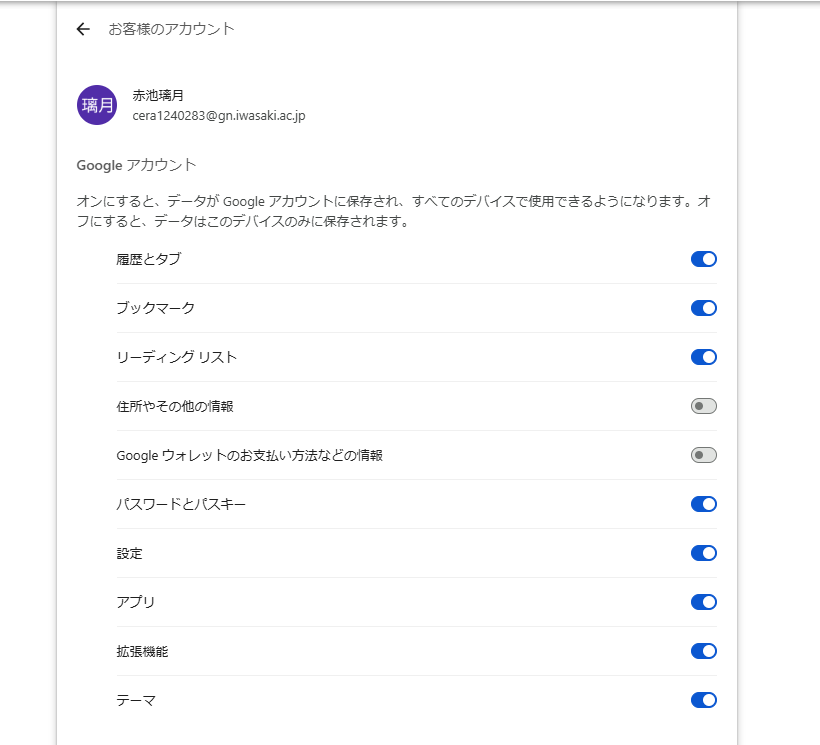
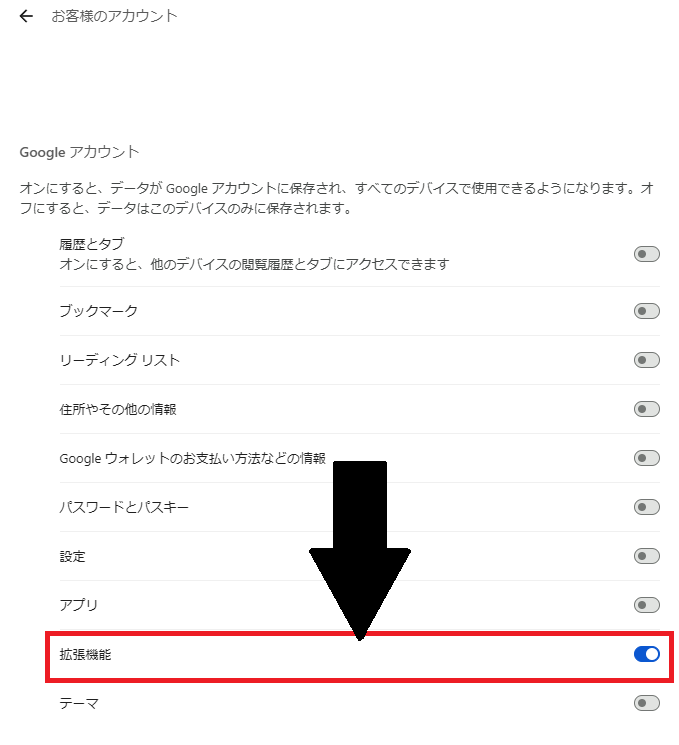
設定ページに同期ガイドを追加し、同期設定の手順を明確化。バージョンを1.0.1に更新し、不要な画像ファイルを削除。

diff --git a/settings.js b/settings.js
@@ -23,11 +23,22 @@
     return Object.entries(items).filter(([key]) => !key.startsWith("__"));
   }
 
+  const syncGuideEl = document.getElementById("sync-guide");
+
+  function updateSyncGuide() {
+    syncGuideEl.hidden = mode !== "sync";
+  }
+
+  document.getElementById("btn-open-sync-settings").addEventListener("click", () => {
+    chrome.tabs.create({ url: "chrome://settings/account" });
+  });
+
   chrome.storage.local.get([MODE_KEY], (result) => {
     mode = result[MODE_KEY] === "local" ? "local" : "sync";
     modeRadios.forEach((radio) => {
       radio.checked = radio.value === mode;
     });
+    updateSyncGuide();
     refreshUsage();
   });
 
@@ -90,6 +101,24 @@
             time.className = "device-time";
             time.textContent = mark.time ? new Date(mark.time).toLocaleString("ja-JP") : "";
             item.appendChild(time);
+
+            const removeBtn = document.createElement("button");
+            removeBtn.type = "button";
+            removeBtn.className = "device-remove";
+            removeBtn.textContent = "×";
+            removeBtn.title = "この印を削除";
+            removeBtn.addEventListener("click", () => {
+              if (!confirm(`「${mark.name || id}」の印を削除します。よろしいですか？`)) return;
+              chrome.storage.sync.get([SYNC_CHECK_KEY], (res) => {
+                const current = res[SYNC_CHECK_KEY] || {};
+                delete current[id];
+                chrome.storage.sync.set({ [SYNC_CHECK_KEY]: current }, () => {
+                  renderSyncCheck();
+                  showStatus("印を削除しました");
+                });
+              });
+            });
+            item.appendChild(removeBtn);
 
             syncCheckListEl.appendChild(item);
           });
@@ -166,6 +195,7 @@
         const applyMode = () => {
           mode = newMode;
           chrome.storage.local.set({ [MODE_KEY]: newMode }, () => {
+            updateSyncGuide();
             refreshUsage();
             showStatus(`保存先を「${label}」に切り替えました`);
           });

diff --git a/settings.html b/settings.html
@@ -124,6 +124,32 @@
       color: #777;
     }
 
+    #sync-guide {
+      border: 1px solid #ffcc80;
+      background: #fff8ef;
+      border-radius: 6px;
+      padding: 10px;
+      margin-bottom: 8px;
+    }
+
+    #sync-guide summary {
+      cursor: pointer;
+      font-size: 13px;
+    }
+
+    #sync-guide p {
+      color: #333;
+      margin-top: 10px;
+    }
+
+    #sync-guide img {
+      display: block;
+      max-width: 100%;
+      border: 1px solid #e0e5e8;
+      border-radius: 6px;
+      margin-bottom: 8px;
+    }
+
     .sync-check-list {
       font-size: 13px;
       margin-bottom: 10px;
@@ -157,6 +183,18 @@
       margin-left: auto;
       color: #777;
       font-size: 12px;
+    }
+
+    .sync-check-item .device-remove {
+      margin: 0;
+      padding: 0 8px;
+      font-size: 12px;
+      color: #d32f2f;
+      border-color: #d32f2f;
+    }
+
+    .sync-check-item .device-remove:hover {
+      background: #fdecea;
     }
 
     #status {
@@ -195,6 +233,14 @@
         <small>Chrome にログインして同期をオンにしていれば、他のパソコンでも同じタスクを使えます（上限 約100KB）。</small>
       </span>
     </label>
+    <details id="sync-guide" hidden>
+      <summary><b>⚠ 同期を使うには Chrome 側の設定が必要です（クリックで手順を表示）</b></summary>
+      <p>
+        <button type="button" id="btn-open-sync-settings">chrome://settings/account を開く</button>
+        を開き、「拡張機能」をオンにしてください。
+      </p>
+      <img src="image/2image.png" alt="「拡張機能」のスイッチをオンにする">
+    </details>
     <label class="mode-option">
       <input type="radio" name="storage-mode" value="local">
       <span>
